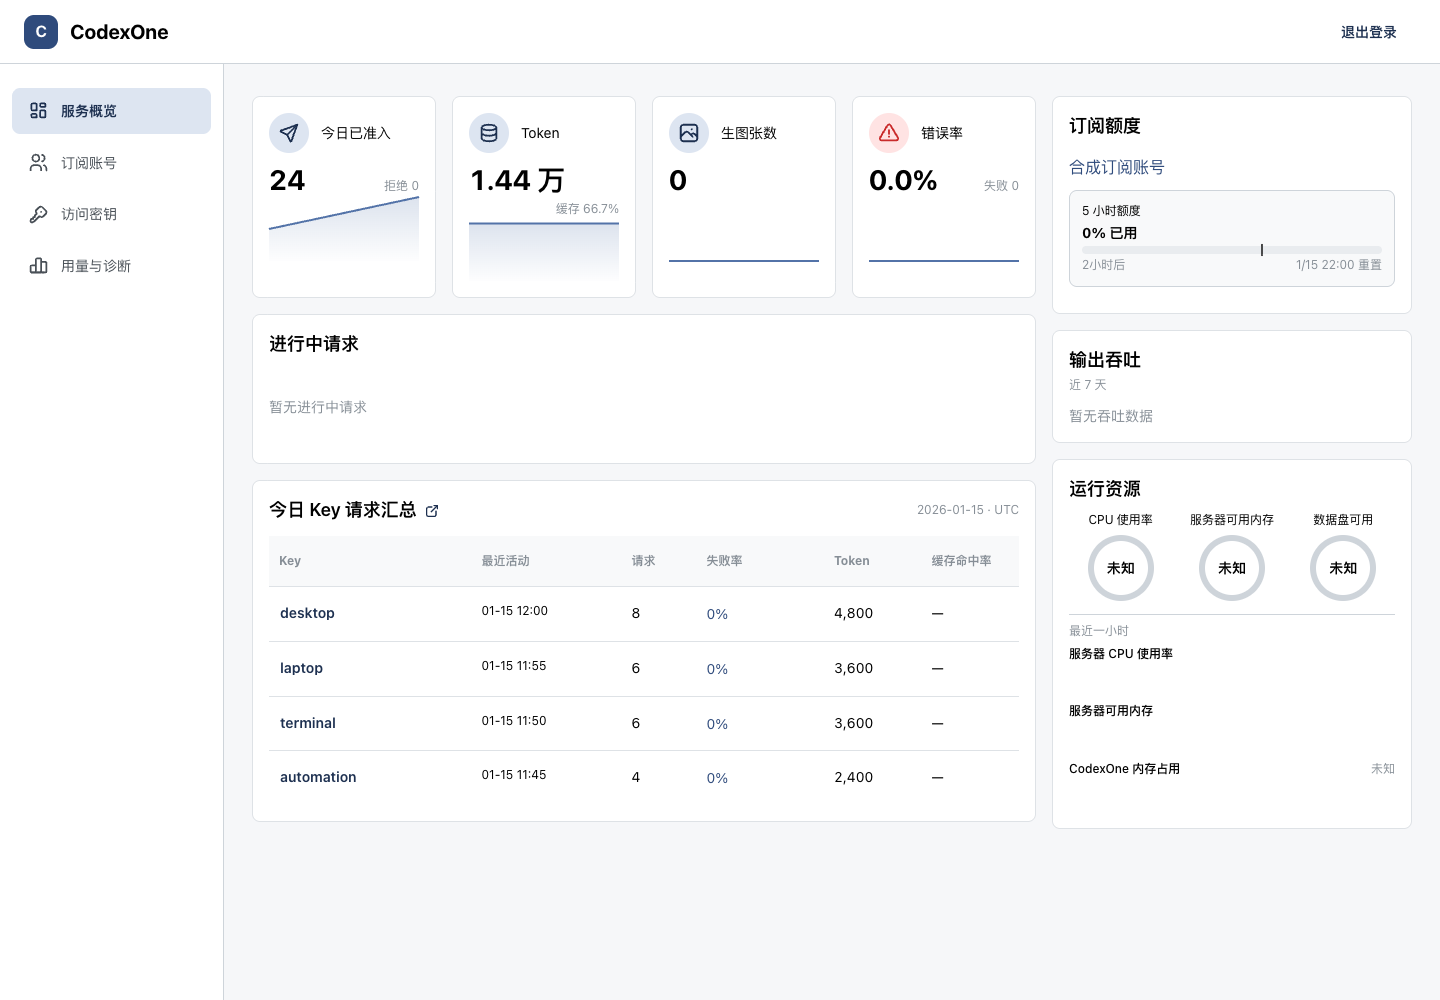
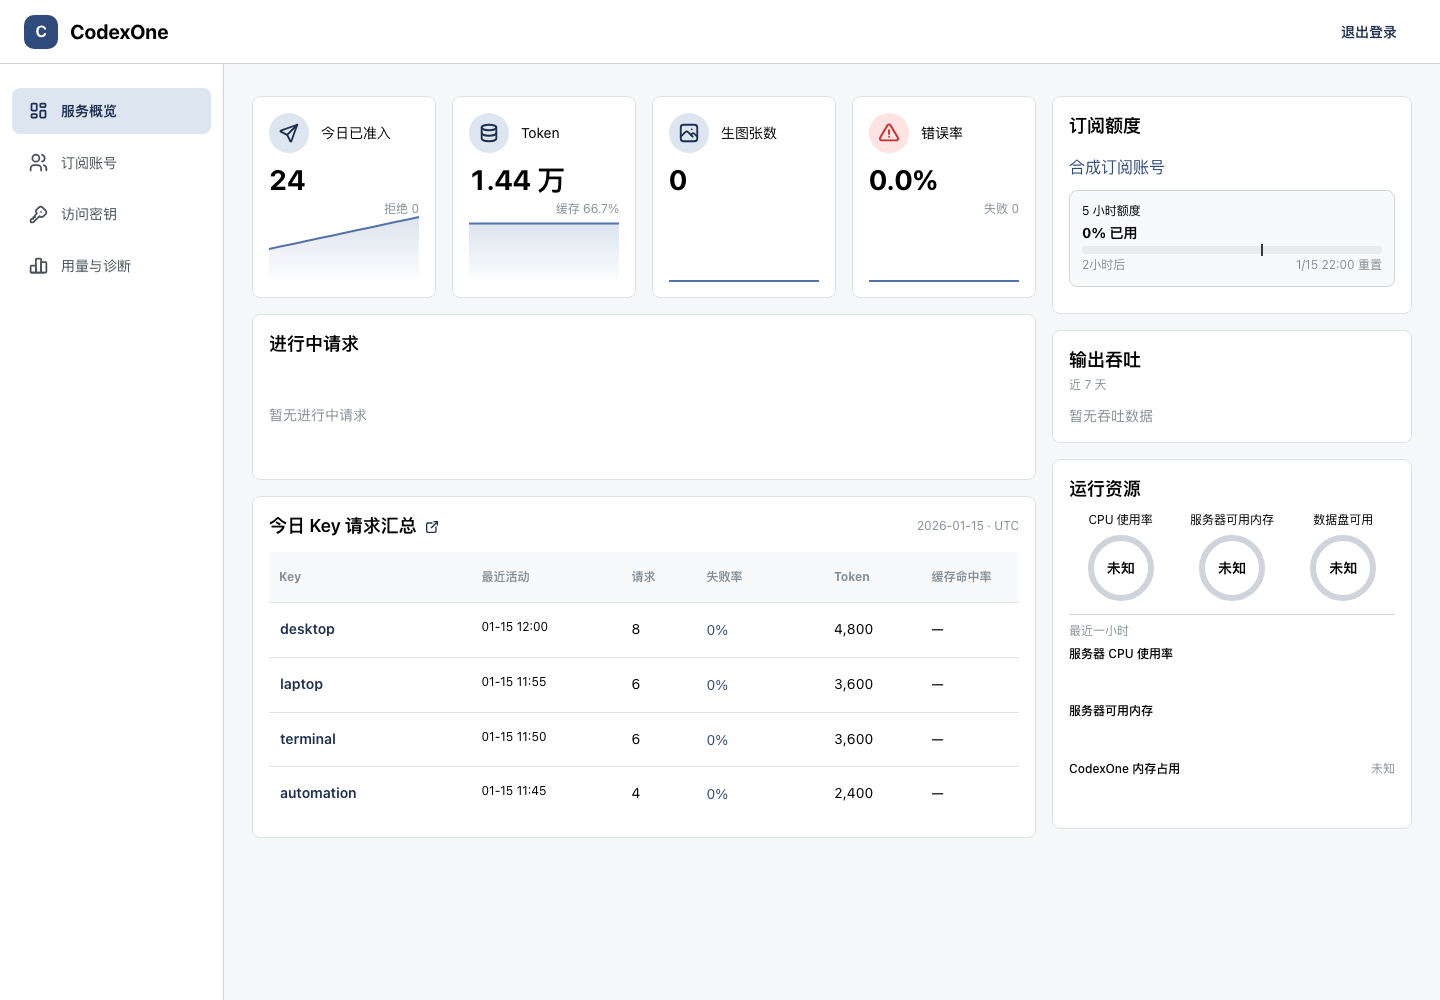
Keep overview geometry stable during real-time updates

diff --git a/web/src/shared/ui/ContinuousValue.tsx b/web/src/shared/ui/ContinuousValue.tsx
@@ -54,6 +54,7 @@ export const ContinuousValue = memo(function ContinuousValue({
   text: string;
 }) {
   const motion = useOverviewMotion();
+  const shape = text.replace(/[0-9]/g, "#");
   const root = useRef<HTMLSpanElement>(null);
   const previous = useRef(text);
   const animations = useRef<Animation[]>([]);
@@ -68,8 +69,8 @@ export const ContinuousValue = memo(function ContinuousValue({
     animations.current.forEach((animation) => animation.cancel());
     animations.current = [];
     // Changing units/precision/sign/length snaps; rapid changes never build an animation queue.
-    const shape = (value: string) => value.replace(/[0-9]/g, "#");
-    if (!motion || interrupted || shape(before) !== shape(text)) return;
+    if (!motion || interrupted || before.replace(/[0-9]/g, "#") !== shape)
+      return;
     const oldDigits = BigInt(before.replace(/\D/g, "") || "0");
     const newDigits = BigInt(text.replace(/\D/g, "") || "0");
     const delta =
@@ -99,7 +100,7 @@ export const ContinuousValue = memo(function ContinuousValue({
           ),
         );
       });
-  }, [text, motion]);
+  }, [text, motion, shape]);
   useLayoutEffect(
     () => () => animations.current.forEach((animation) => animation.cancel()),
     [],
@@ -107,7 +108,7 @@ export const ContinuousValue = memo(function ContinuousValue({
   return (
     <span className={styles.value} ref={root} data-continuous-value="">
       <span className={styles.accessible}>{text}</span>
-      <span className={styles.visual} aria-hidden="true">
+      <span key={shape} className={styles.visual} aria-hidden="true">
         {Array.from(text, (character, index) =>
           /[0-9]/.test(character) ? (
             <span className={styles.digit} key={index}>

diff --git a/web/src/features/system-status/overview.module.css b/web/src/features/system-status/overview.module.css
@@ -73,14 +73,22 @@
   }
 }
 
+.keyIdentity {
+  max-inline-size: 100%;
+}
+
+.keyIdentity :global(.mantine-Badge-root) {
+  flex-shrink: 0;
+}
+
 .keyButton {
+  min-inline-size: 0;
   height: auto;
   padding: 2px 0;
   max-width: 100%;
 }
 .keyButton :global(.mantine-Button-label) {
-  white-space: normal;
-  overflow-wrap: anywhere;
+  text-overflow: ellipsis;
   text-align: left;
 }
 
@@ -95,9 +103,12 @@
   }
 }
 
+.metricCard {
+  container-type: inline-size;
+}
+
 .metricRow {
   display: flex;
-  flex-wrap: wrap;
   justify-content: space-between;
   align-items: baseline;
   gap: 4px;
@@ -112,6 +123,29 @@
 
 .metricValue {
   flex-shrink: 0;
+}
+
+@container (width < 180px) {
+  .metricRow {
+    display: grid;
+    grid-template-columns: minmax(0, 1fr);
+    grid-template-rows: auto 1.05rem;
+  }
+  .metricNote {
+    justify-self: end;
+    margin-inline-start: 0;
+    line-height: 1.05rem;
+  }
+}
+
+.requestTitle {
+  display: flex;
+  align-items: baseline;
+  gap: 4px;
+}
+.requestRate {
+  font-variant-numeric: tabular-nums;
+  white-space: nowrap;
 }
 
 @media (max-width: 479px) {
@@ -134,6 +168,7 @@
 .requestCard {
   min-width: 0;
   overflow-wrap: anywhere;
+  min-block-size: 6rem;
   display: grid;
   gap: 6px;
 }
@@ -149,7 +184,7 @@
   flex-shrink: 0;
 }
 .requestEmpty {
-  min-block-size: 5rem;
+  min-block-size: 6rem;
   display: flex;
   align-items: center;
 }

diff --git a/web/src/features/system-status/ActivityOverview.tsx b/web/src/features/system-status/ActivityOverview.tsx
@@ -193,6 +193,9 @@ export function ActivityOverview({
     <ErrorState retry={retrySources}>{readFailure}</ErrorState>
   ) : null;
 
+  const outputRate = live?.settledOutputRate;
+  const outputRateLabel =
+    outputRate == null ? null : outputRateFormat.format(outputRate);
   return (
     <Stack
       aria-label="请求即时概览"
@@ -214,17 +217,20 @@ export function ActivityOverview({
             />
           )}
           <Paper withBorder p="md">
-            <Title order={3} size="h4" mb="xs">
-              进行中请求
-              {live?.settledOutputRate != null && (
+            <Title order={3} size="h4" mb="xs" className={styles.requestTitle}>
+              <span>进行中请求</span>
+              {outputRateLabel !== null && (
                 <Text
                   component="span"
                   size="xs"
                   c="dimmed"
+                  className={styles.requestRate}
                   title="最近 60 秒内，仅对有输出 Token 结算的秒数取平均。"
                 >
-                  {" · "}
-                  {outputRateFormat.format(live.settledOutputRate)} Token/s
+                  <span key={outputRateLabel}>
+                    {" "}
+                    · {outputRateLabel} Token/s
+                  </span>
                 </Text>
               )}
             </Title>

diff --git a/web/src/features/system-status/KeyResults.tsx b/web/src/features/system-status/KeyResults.tsx
@@ -122,7 +122,7 @@ export function KeyResults({
       width: "27%",
       render: (row) => (
         <Stack gap={4} align="flex-start">
-          <Group gap={6}>
+          <Group gap={6} wrap="nowrap" className={styles.keyIdentity}>
             <Button
               variant="subtle"
               size="compact-sm"
@@ -272,17 +272,18 @@ export function KeyResults({
           </ActionIcon>
         </Group>
         {report && (
-          <Text size="xs" c={oldWindow ? "orange.8" : "dimmed"}>
-            {oldWindow ? "旧业务日快照 · " : ""}
-            {snapshot}
+          <Text
+            size="xs"
+            c={oldWindow || query.isError ? "orange.8" : "dimmed"}
+            role={query.isError ? "status" : undefined}
+            title={snapshot}
+          >
+            {query.isError
+              ? `更新失败 · 上次更新 ${businessTime(query.dataUpdatedAt / 1000, offset)}`
+              : `${oldWindow ? "旧业务日快照 · " : ""}${snapshot}`}
           </Text>
         )}
       </Group>
-      {query.isError && report && (
-        <Text role="status" c="orange.8" size="sm">
-          {`更新失败 · 上次更新 ${businessTime(query.dataUpdatedAt / 1000, offset)}`}
-        </Text>
-      )}
       {query.isError && !report ? (
         <Text size="sm" c="dimmed">
           Key 汇总读取失败

diff --git a/web/src/features/system-status/OverviewStats.tsx b/web/src/features/system-status/OverviewStats.tsx
@@ -233,7 +233,7 @@ export function OverviewStats({
       aria-label={loading ? "正在读取请求概览…" : "关键指标"}
     >
       {cards.map((card, index) => (
-        <Paper key={card.label} withBorder p="md">
+        <Paper key={card.label} withBorder p="md" className={styles.metricCard}>
           {loading ? (
             <Skeleton h={190} />
           ) : (
